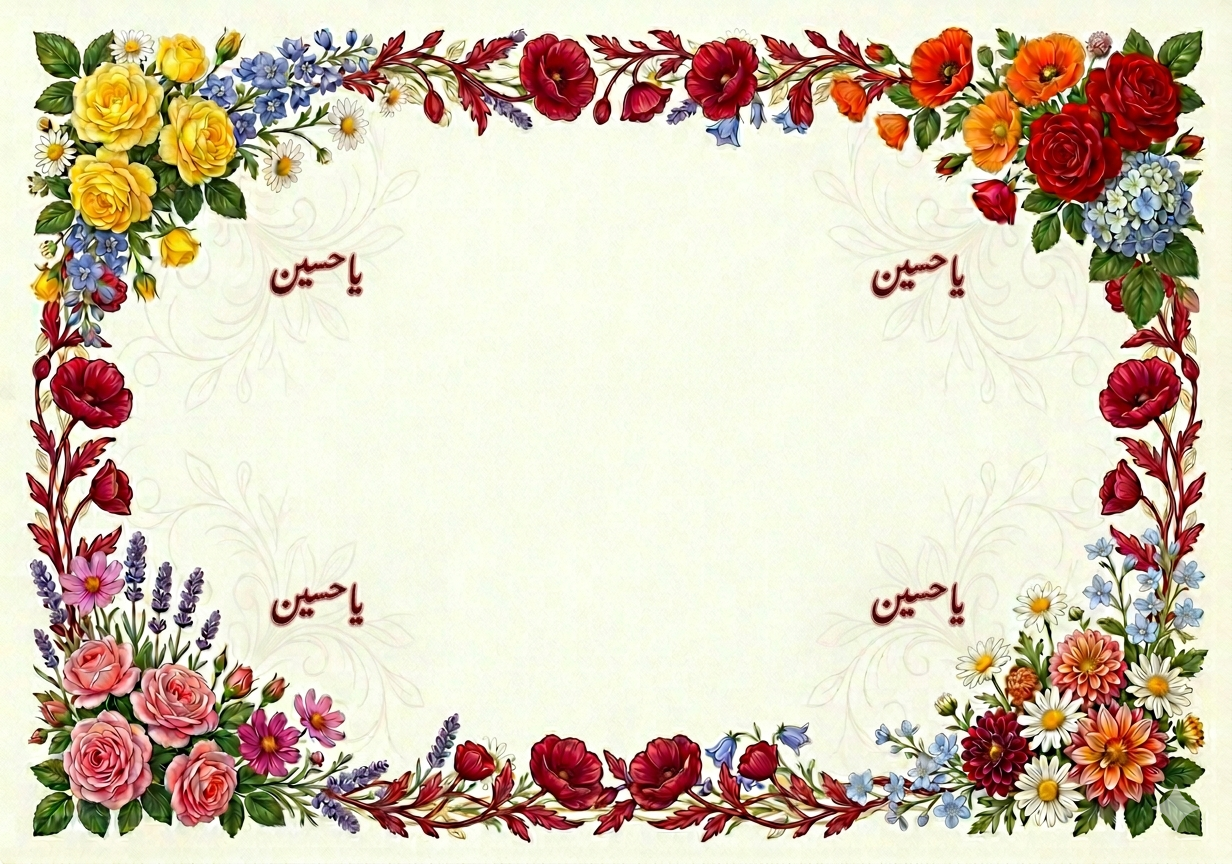
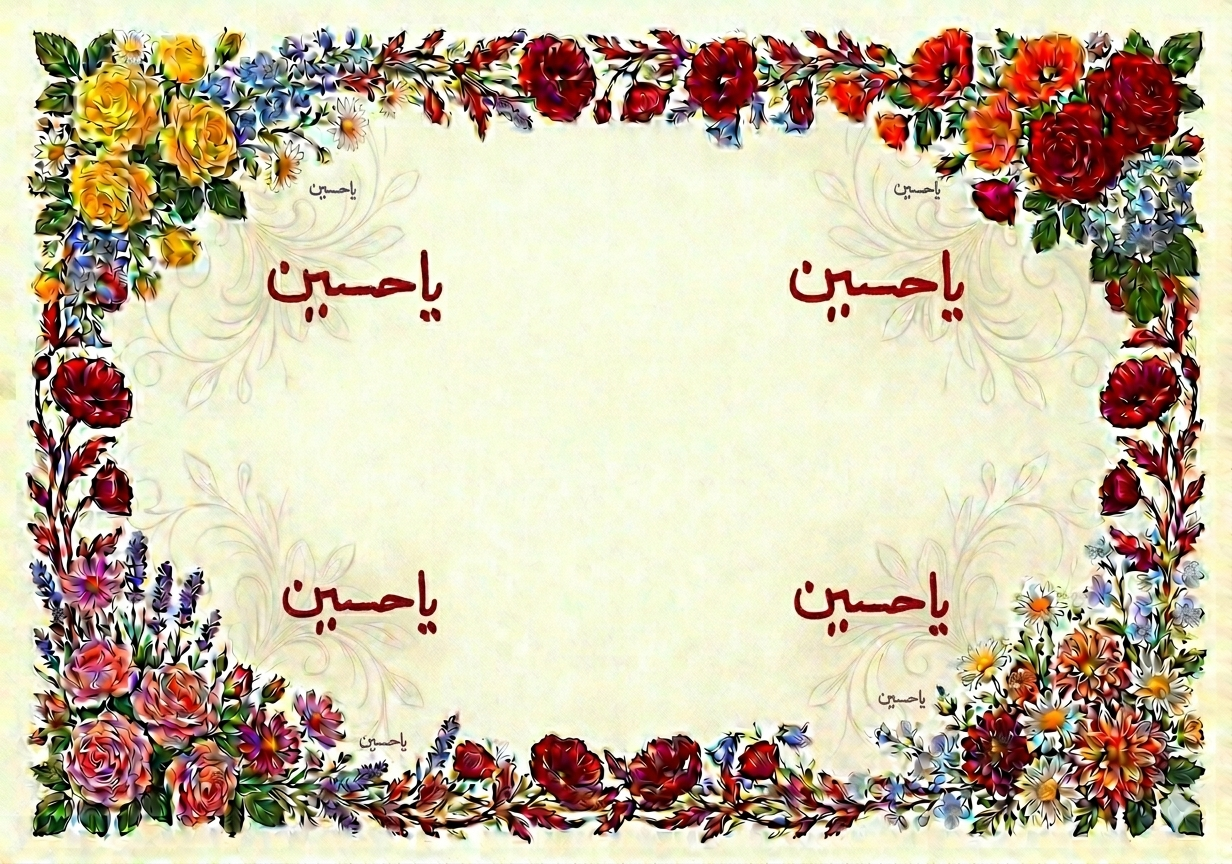
Added final Background Image and final padding in generated PDF

diff --git a/CMSECommerce/Areas/AsharaAzam/Controllers/AzamController.cs b/CMSECommerce/Areas/AsharaAzam/Controllers/AzamController.cs
@@ -111,23 +111,23 @@ namespace CMSECommerce.Areas.AsharaAzam.Controllers
                                 mainCol.Item().PaddingTop(8).AlignCenter().Text("MY ASHARA AZAM")
                                 .FontFamily(Fonts.Verdana).FontSize(20).ExtraBold().FontColor("#004E50");
 
-                                mainCol.Item().PaddingTop(2).AlignCenter().Text("Acknowledging the sincere Niyyat of")
+                                mainCol.Item().PaddingTop(6).AlignCenter().Text("Acknowledging the sincere Niyyat of")
                                 .FontSize(11).Italic().FontColor("#666666");
 
                                 // Name & ID
-                                mainCol.Item().PaddingTop(2).AlignCenter().Text(entry.FullName.ToUpper())
-                                .FontFamily(Fonts.Georgia).FontSize(26).Bold().FontColor("#C59F46");
+                                mainCol.Item().PaddingTop(12).AlignCenter().Text(entry.FullName.ToUpper())
+                                .FontFamily(Fonts.Georgia).FontSize(20).Bold().FontColor("#C59F46");
 
                                 mainCol.Item().AlignCenter().Text($"ITS ID: {entry.ITSNumber}")
                                 .FontSize(13).Medium().FontColor("#004E50");
 
                                 // Commitment Header (Tightened)
-                                mainCol.Item().PaddingTop(5).AlignCenter()
+                                mainCol.Item().PaddingTop(2).AlignCenter()
                                 .Text("Mein Em Azam Karoon Choon Ke Ashara Mubaraka Ma Mein:")
                                 .FontSize(14).SemiBold().FontColor("#004E50");
 
                                 // Content List
-                                mainCol.Item().PaddingTop(10).PaddingLeft(25).Column(listCol =>
+                                mainCol.Item().PaddingTop(1).PaddingLeft(25).Column(listCol =>
                                 {
                                     string[] items = {
                             "Maro Business 100% close raakhis.",
@@ -138,7 +138,7 @@ namespace CMSECommerce.Areas.AsharaAzam.Controllers
 
                                     foreach (var item in items)
                                     {
-                                        listCol.Item().PaddingBottom(4).Row(row =>
+                                        listCol.Item().PaddingBottom(1).Row(row =>
                                         {
                                             row.ConstantItem(20).Text("•").FontSize(16).FontColor("#C59F46");
                                             row.RelativeItem().PaddingTop(2).Text(item)
@@ -149,7 +149,7 @@ namespace CMSECommerce.Areas.AsharaAzam.Controllers
                             });
 
                             // --- FOOTER SECTION (Kept just above bottom vine) ---
-                            column.Item().AlignBottom().PaddingBottom(45).AlignCenter().Column(ft =>
+                            column.Item().AlignBottom().PaddingBottom(153).AlignCenter().Column(ft =>
                             {
                                 ft.Item().AlignCenter().Text("ANJUMAN E BURHANI")
                                 .Bold().FontSize(10).FontColor("#004E50");
